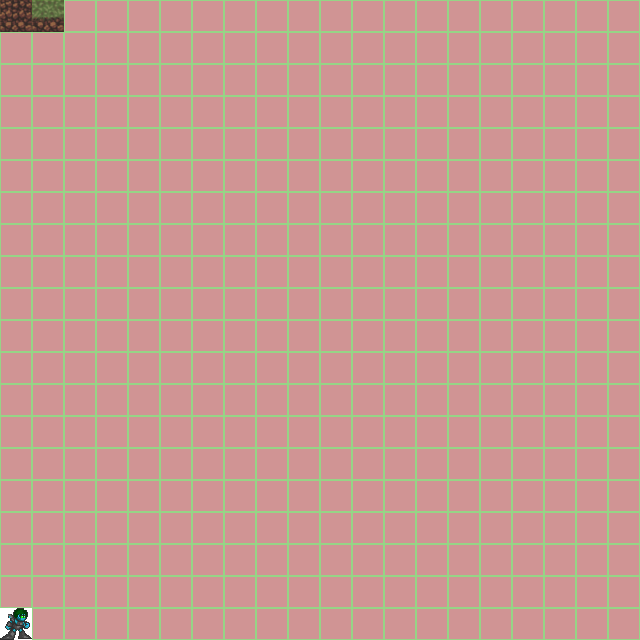
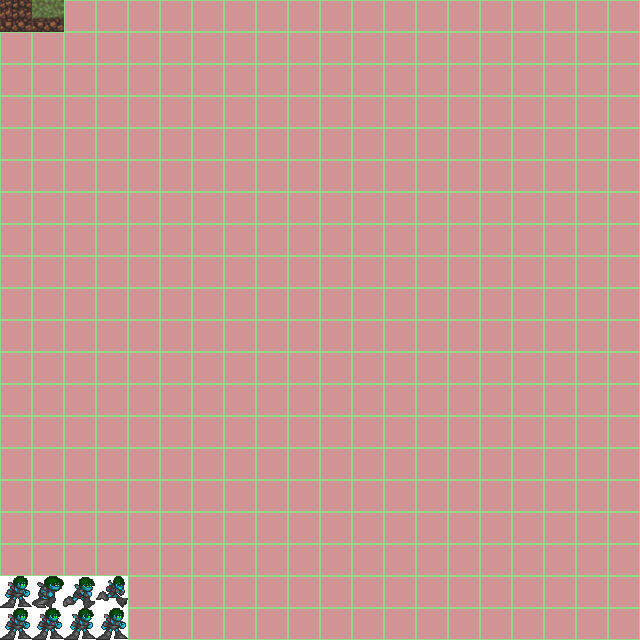
dodane animacje
-dodane animacje w lewo i prawo

Changed region(s): [[0.0, 0.875, 0.2188, 1.0]]

diff --git a/src/platformer2d/PostacGracza.java b/src/platformer2d/PostacGracza.java
@@ -34,6 +34,9 @@ public class PostacGracza extends Postac
     public double grawitacja = 15;
     public double predkoscPoruszania=7;
     
+    public int animacja=0;
+    public int klatkaAnimacji = 0, czasAnimacji=20;
+    
     
     @Override
     public void tick() 
@@ -47,13 +50,34 @@ public class PostacGracza extends Postac
             Plansza.scrollingY+=grawitacja;
         }
         
-     
+
+        
         if(Plansza.isCharacterMoving==true)
         {
             x+=Plansza.kierunekPostaci;
             Plansza.scrollingX+=Plansza.kierunekPostaci;
         }
+      
         
+        
+        if(klatkaAnimacji>=czasAnimacji) //Animacje
+        {
+             if(animacja>=3) //Na razie 4 ,bo mi sie nie chce wincyj
+            {
+                animacja=0;
+            }
+            else
+            {
+               animacja+=1;  
+            }
+            
+                klatkaAnimacji=0;   
+            }
+        else
+        {
+            klatkaAnimacji+=1;
+        }
+
     }
 
 
@@ -61,17 +85,70 @@ public class PostacGracza extends Postac
     @Override
     public void render(Graphics graph_arg) 
     {
-        graph_arg.drawImage(
+        if(Plansza.kierunekPostaci == predkoscPoruszania)//rendering poruszania w lewo
+        {
+            if(Plansza.isCharacterMoving==true) 
+            {
+                graph_arg.drawImage(
                 Kafelek.kafelki_teren, 
                 (int)x - Plansza.scrollingX, 
                 (int)y - Plansza.scrollingY,
                 (int)(x+szer)- Plansza.scrollingX,
                 (int)(y+wys) - Plansza.scrollingY,
-                Kafelek.postacGracza[0]*Kafelek.kafelekSize,
-                Kafelek.postacGracza[1]*Kafelek.kafelekSize,
-                Kafelek.postacGracza[0]*Kafelek.kafelekSize+(int)szer,
-                Kafelek.postacGracza[1]*Kafelek.kafelekSize+(int)wys,
+                Kafelek.postacGraczaRun[0]*Kafelek.kafelekSize+(Kafelek.kafelekSize*animacja),
+                Kafelek.postacGraczaRun[1]*Kafelek.kafelekSize,
+                Kafelek.postacGraczaRun[0]*Kafelek.kafelekSize+(Kafelek.kafelekSize*animacja)+(int)szer,
+                Kafelek.postacGraczaRun[1]*Kafelek.kafelekSize+(int)wys,
                 null);
+            }
+            else
+            {
+                graph_arg.drawImage(
+                Kafelek.kafelki_teren, 
+                (int)x - Plansza.scrollingX, 
+                (int)y - Plansza.scrollingY,
+                (int)(x+szer)- Plansza.scrollingX,
+                (int)(y+wys) - Plansza.scrollingY,
+                Kafelek.postacGraczaIdle[0]*Kafelek.kafelekSize+(Kafelek.kafelekSize*animacja),
+                Kafelek.postacGraczaIdle[1]*Kafelek.kafelekSize,
+                Kafelek.postacGraczaIdle[0]*Kafelek.kafelekSize+(Kafelek.kafelekSize*animacja)+(int)szer,
+                Kafelek.postacGraczaIdle[1]*Kafelek.kafelekSize+(int)wys,
+                null);
+            }
+             
+        }
+        else // poruszanie w prawo
+        {
+            if(Plansza.isCharacterMoving==true) 
+            {
+                graph_arg.drawImage(
+                Kafelek.kafelki_teren, 
+                (int)x - Plansza.scrollingX, 
+                (int)y - Plansza.scrollingY,
+                (int)(x+szer)- Plansza.scrollingX,
+                (int)(y+wys) - Plansza.scrollingY,
+                Kafelek.postacGraczaRun[0]*Kafelek.kafelekSize+(Kafelek.kafelekSize*animacja)+(int)szer,
+                Kafelek.postacGraczaRun[1]*Kafelek.kafelekSize,
+                Kafelek.postacGraczaRun[0]*Kafelek.kafelekSize+(Kafelek.kafelekSize*animacja),
+                Kafelek.postacGraczaRun[1]*Kafelek.kafelekSize+(int)wys,
+                null);
+            }
+            else
+            {
+                graph_arg.drawImage(
+                Kafelek.kafelki_teren, 
+                (int)x - Plansza.scrollingX, 
+                (int)y - Plansza.scrollingY,
+                (int)(x+szer)- Plansza.scrollingX,
+                (int)(y+wys) - Plansza.scrollingY,
+                Kafelek.postacGraczaIdle[0]*Kafelek.kafelekSize+(Kafelek.kafelekSize*animacja)+(int)szer,
+                Kafelek.postacGraczaIdle[1]*Kafelek.kafelekSize,
+                Kafelek.postacGraczaIdle[0]*Kafelek.kafelekSize+(Kafelek.kafelekSize*animacja),
+                Kafelek.postacGraczaIdle[1]*Kafelek.kafelekSize+(int)wys,
+                null);
+            }
+        }
+        
         
    
     }
@@ -79,9 +156,9 @@ public class PostacGracza extends Postac
     
     public boolean kolizjaBlok(Point pkt1, Point pkt2)
     {
-        for(int x = (int)(this.x/Kafelek.kafelekSize);x<(int)(this.x/Kafelek.kafelekSize+3);x++)
+        for(int x = (int)(this.x/Kafelek.kafelekSize);x<(int)(this.x/Kafelek.kafelekSize+2);x++)
         {
-            for(int y = (int)(this.y/Kafelek.kafelekSize);y<(int)(this.y/Kafelek.kafelekSize+3);y++)
+            for(int y = (int)(this.y/Kafelek.kafelekSize);y<(int)(this.y/Kafelek.kafelekSize+2);y++)
             {
                 if(x>=0&& y>=0 && x< Plansza.level_1.bloki.length && y<Plansza.level_1.bloki[0].length)
                 if(Plansza.level_1.bloki[x][y].blokID!=Kafelek.powietrze)

diff --git a/src/platformer2d/Kafelek.java b/src/platformer2d/Kafelek.java
@@ -11,7 +11,8 @@ public class Kafelek //moze sie skladac z wiekszej ilosci blokow
 {
     public static int[] powietrze = {-1,-1};
     public static int[] ziemia = {0,0};
-    public static int[] postacGracza = {0,19};
+    public static int[] postacGraczaIdle = {0,19};
+    public static int [] postacGraczaRun = {0,18};
     public static int [] trawa = {1,0};
     
     public static BufferedImage kafelki_teren;

diff --git a/src/platformer2d/Poziom1.java b/src/platformer2d/Poziom1.java
@@ -54,6 +54,11 @@ public class Poziom1
                {
                    bloki[x][y].blokID=Kafelek.ziemia;
                }
+               
+                 if(y==bloki[x].length-5 && x>20 && x<30)
+               {
+                   bloki[x][y].blokID=Kafelek.ziemia;
+               }
             }
         }
     }
